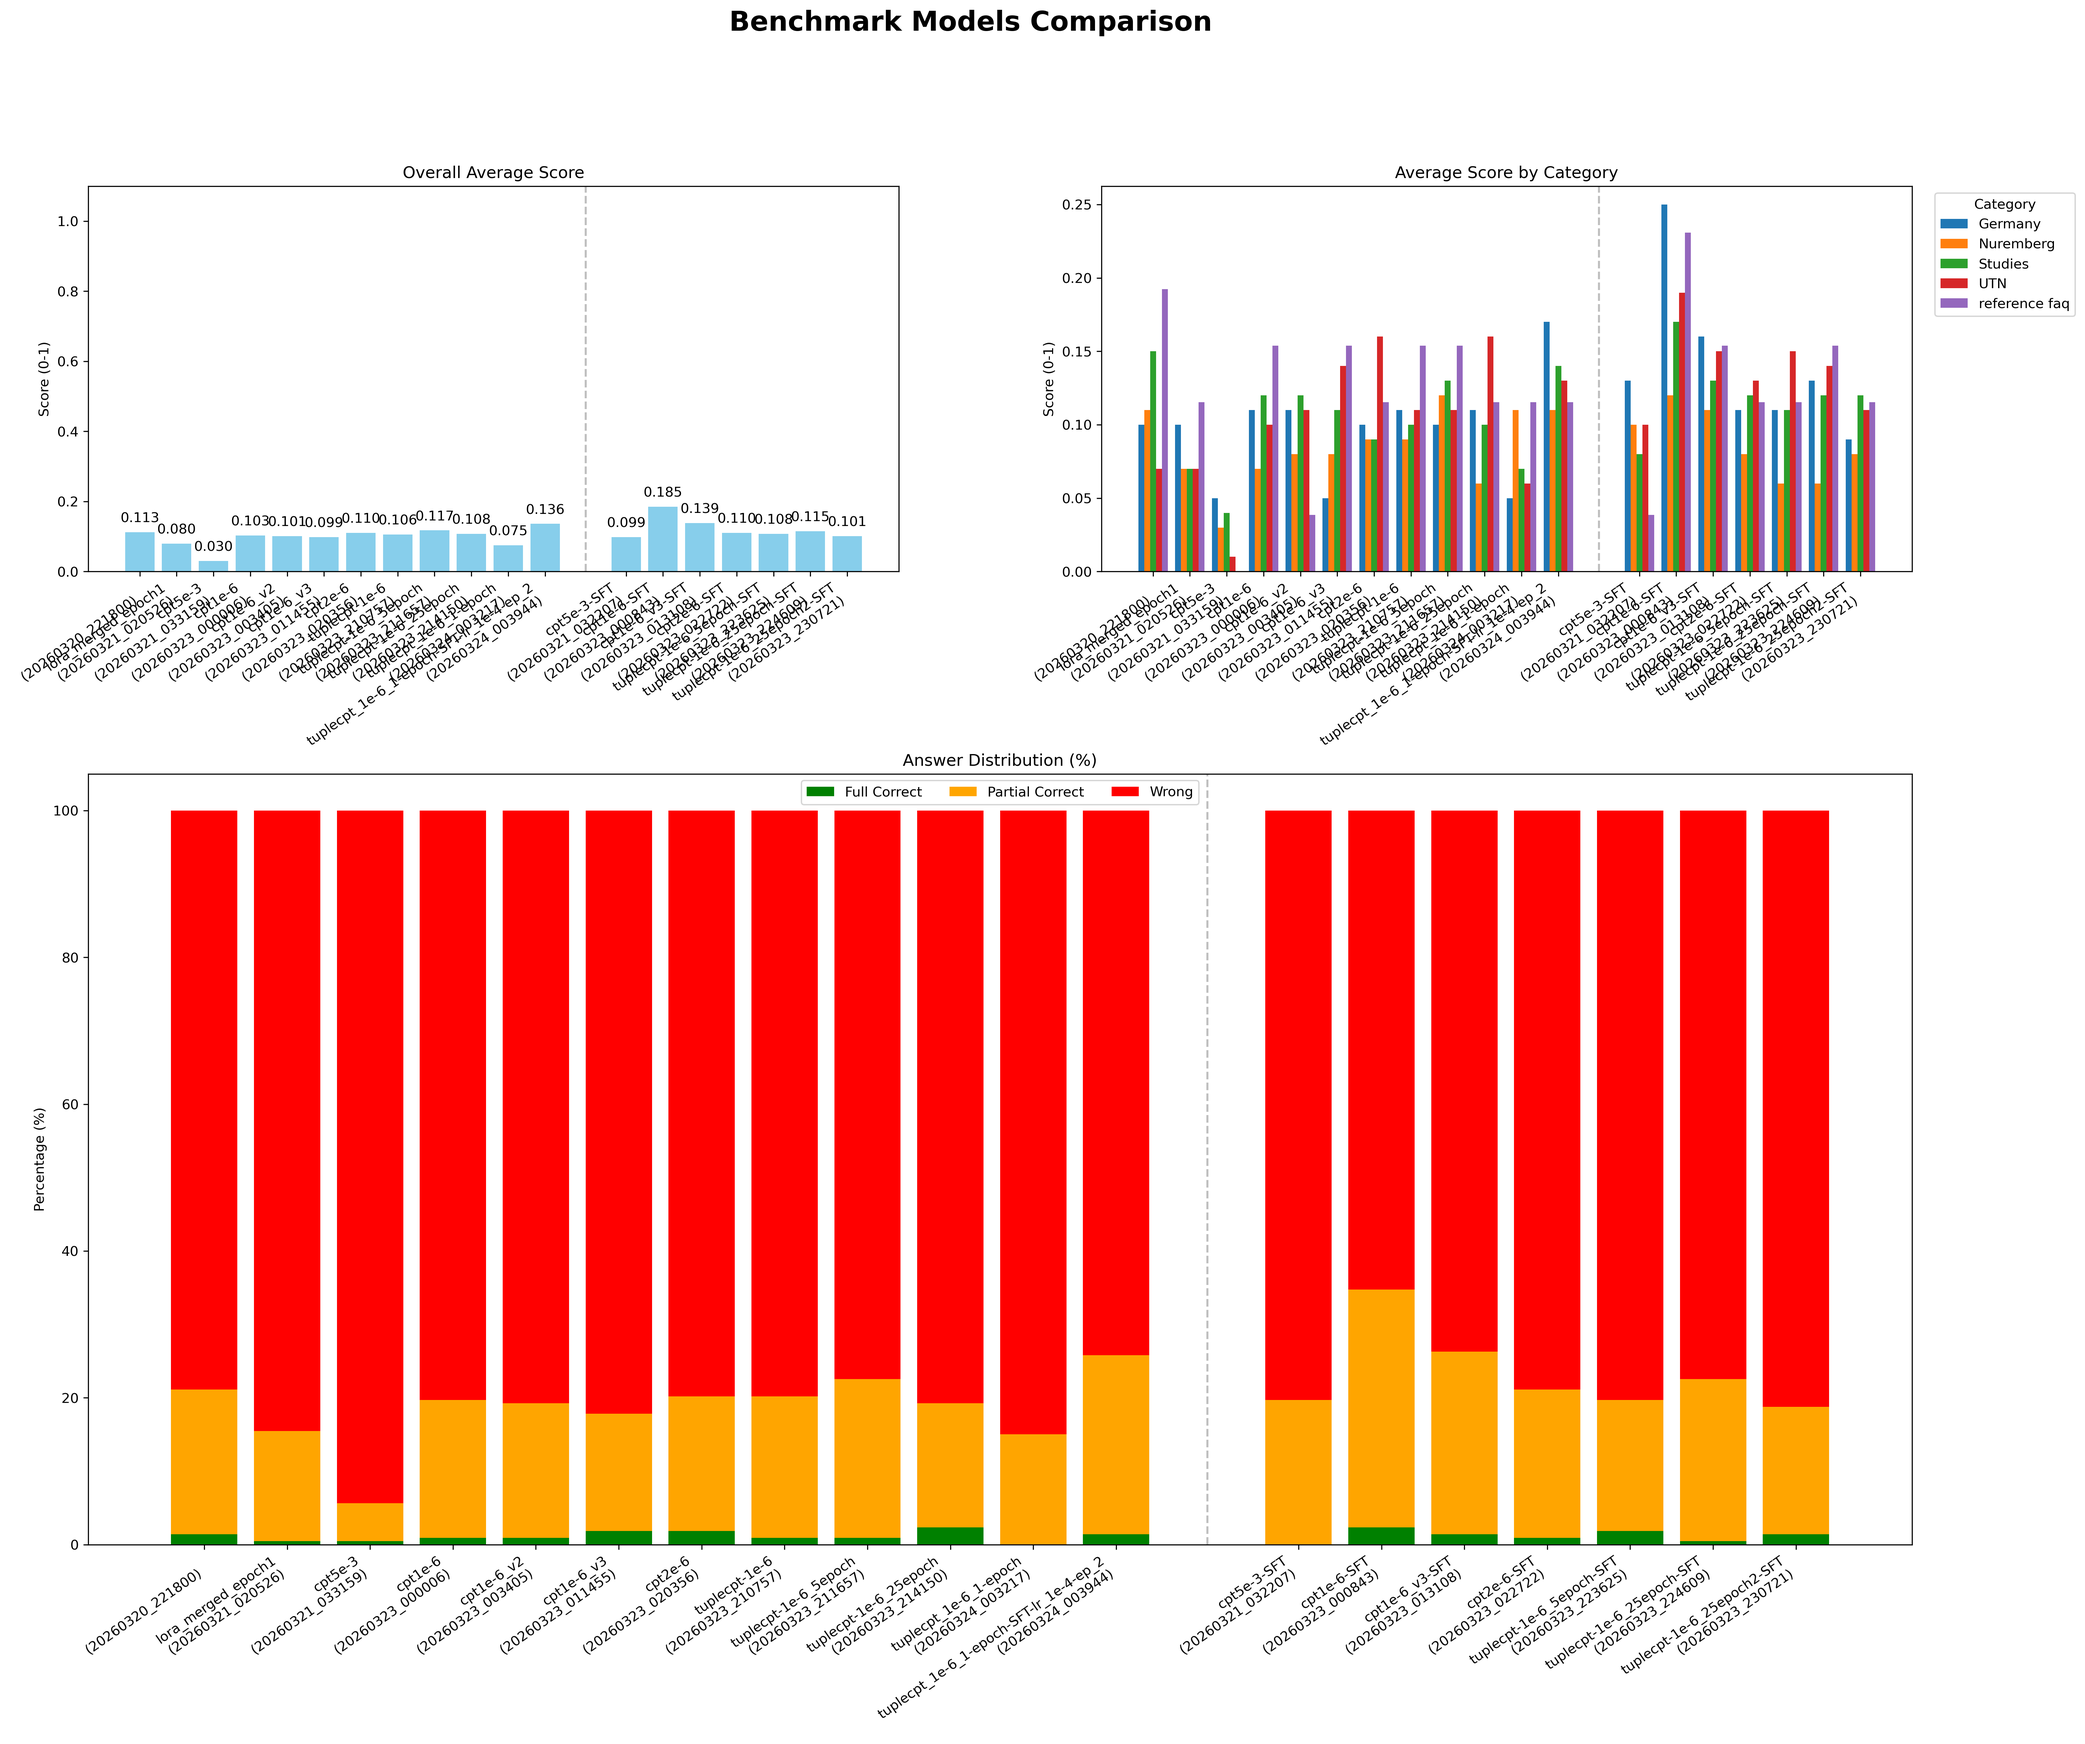
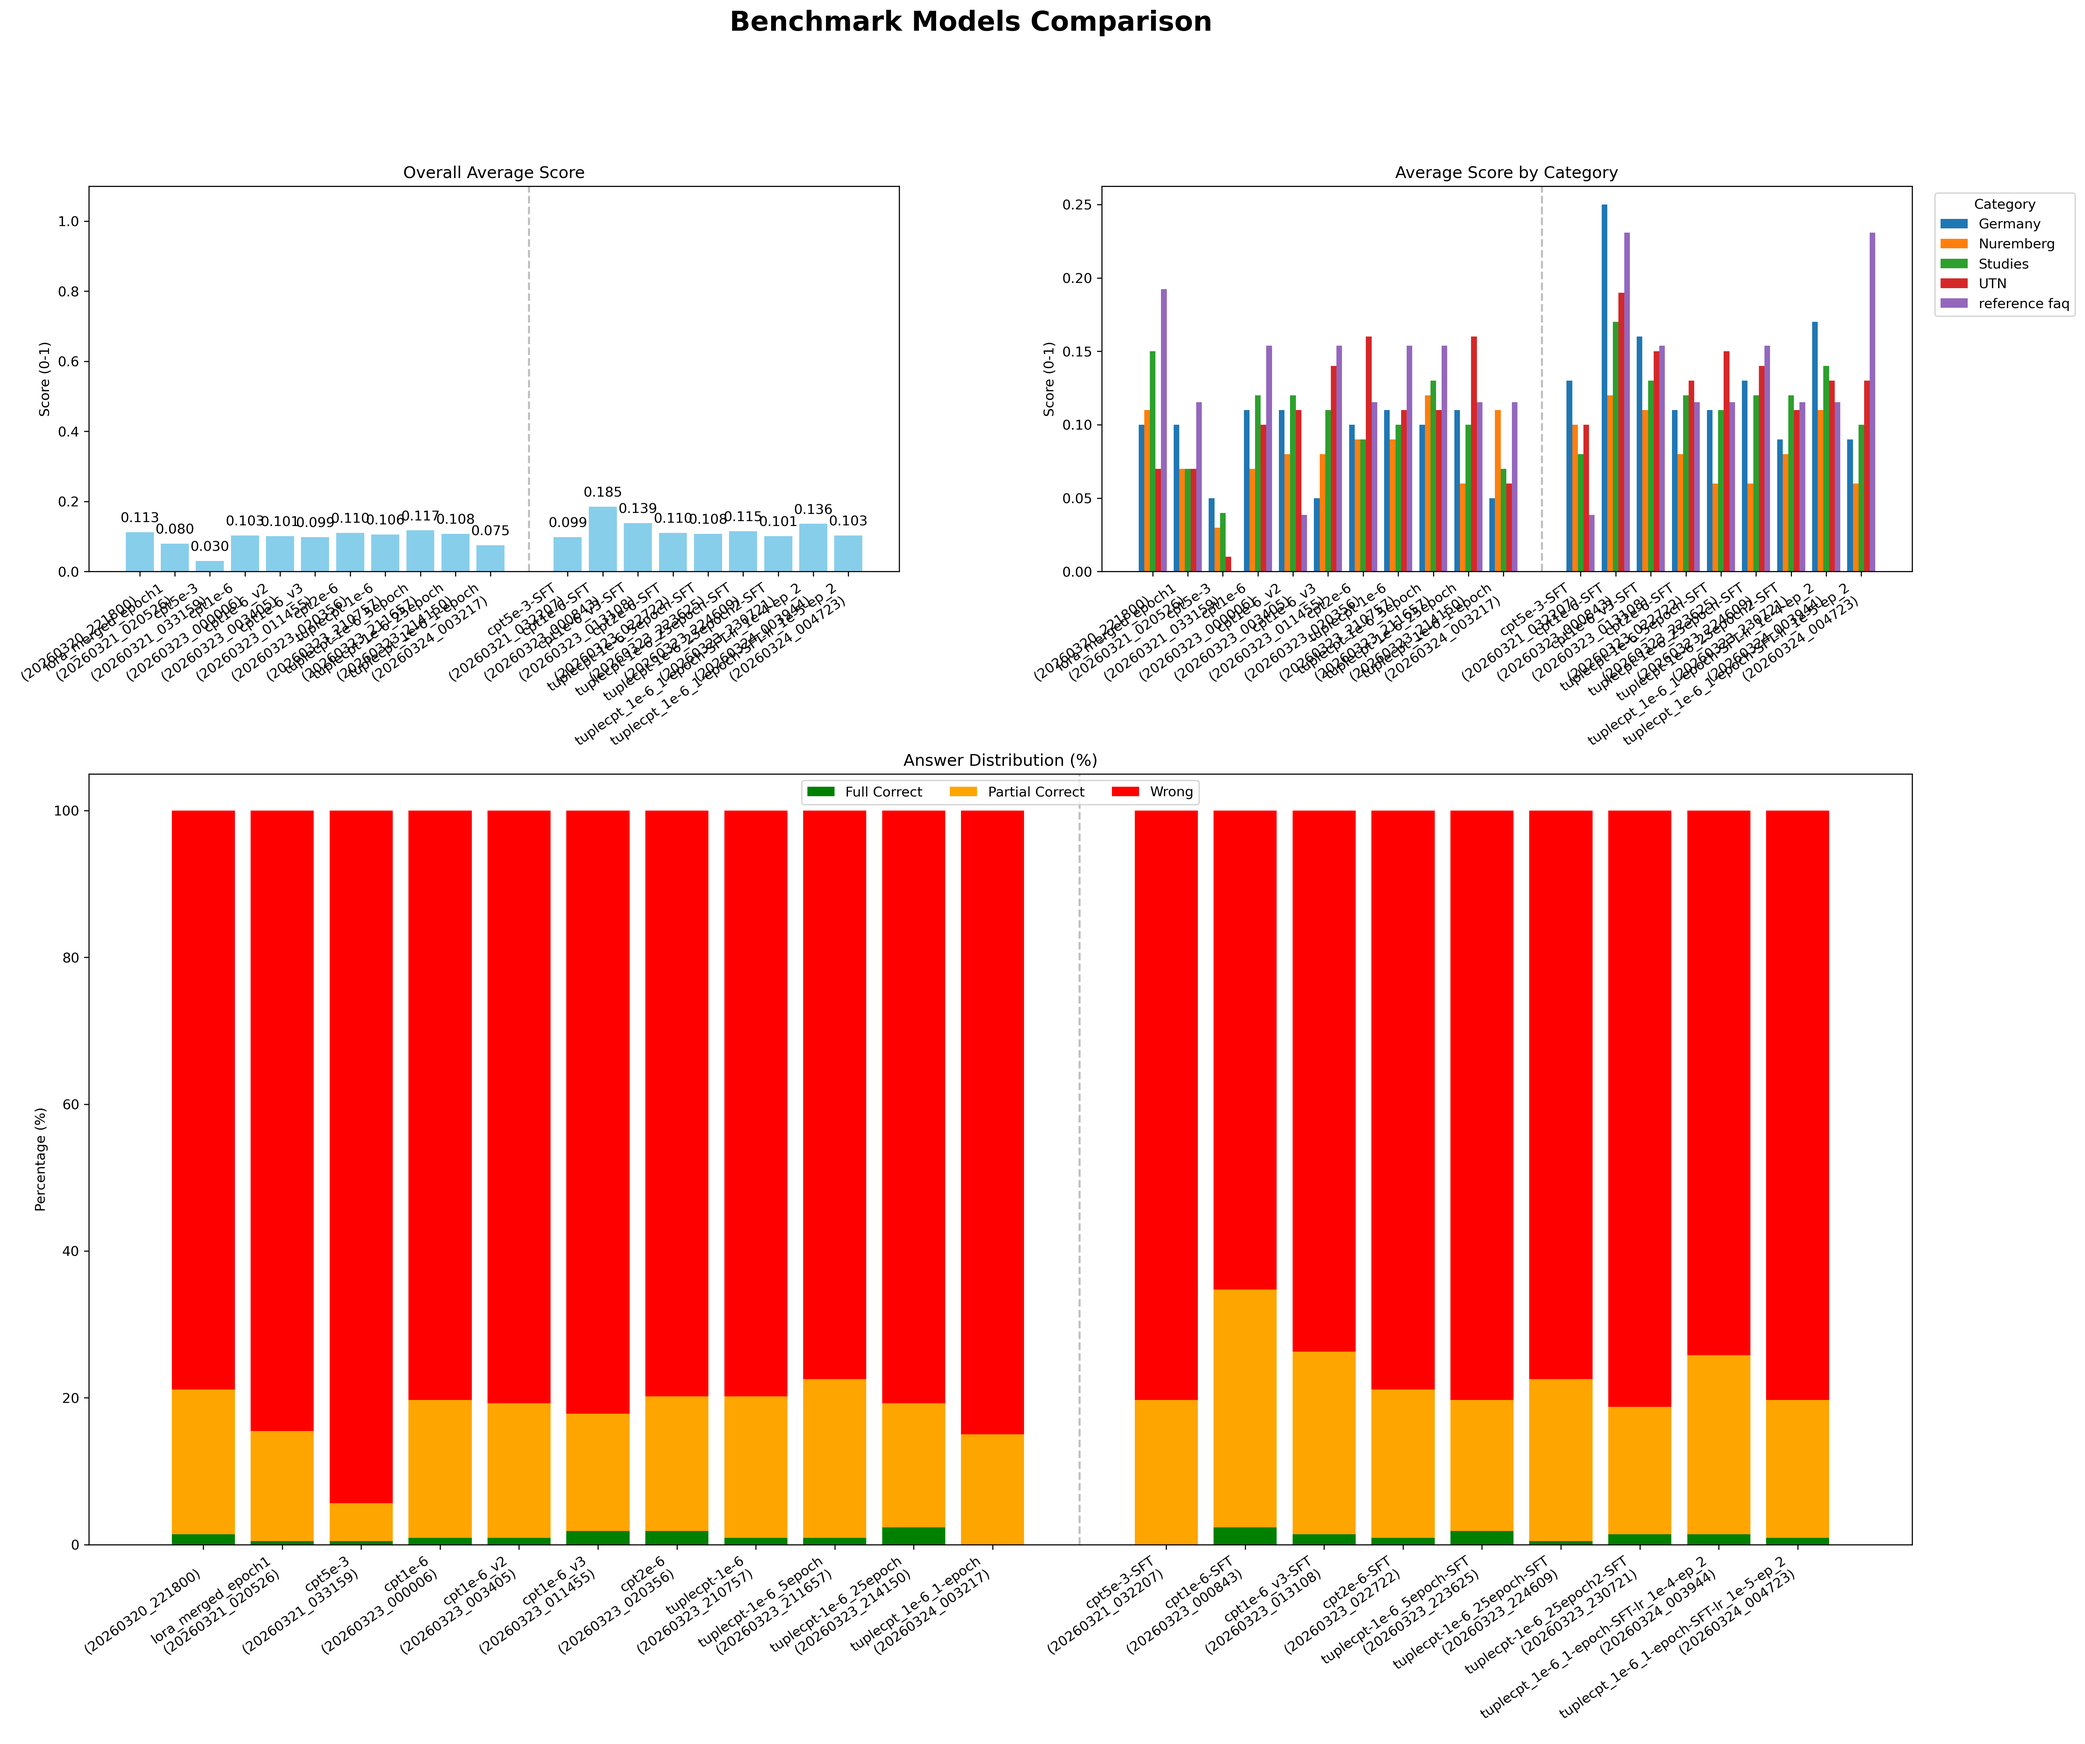
Update naming.

Changed region(s): [[0.0624, 0.4354, 0.8735, 0.964], [0.4991, 0.1244, 0.9047, 0.4043], [0.0312, 0.2799, 0.4055, 0.4354]]

diff --git a/4_benchmark/comparison.py b/4_benchmark/comparison.py
@@ -25,7 +25,7 @@ def clean_display_name(name):
 def is_sft_model(name):
     if not isinstance(name, str):
         return False
-    return name.endswith("-SFT")
+    return "-SFT" in name
 
 
 def load_results(results_dir):
